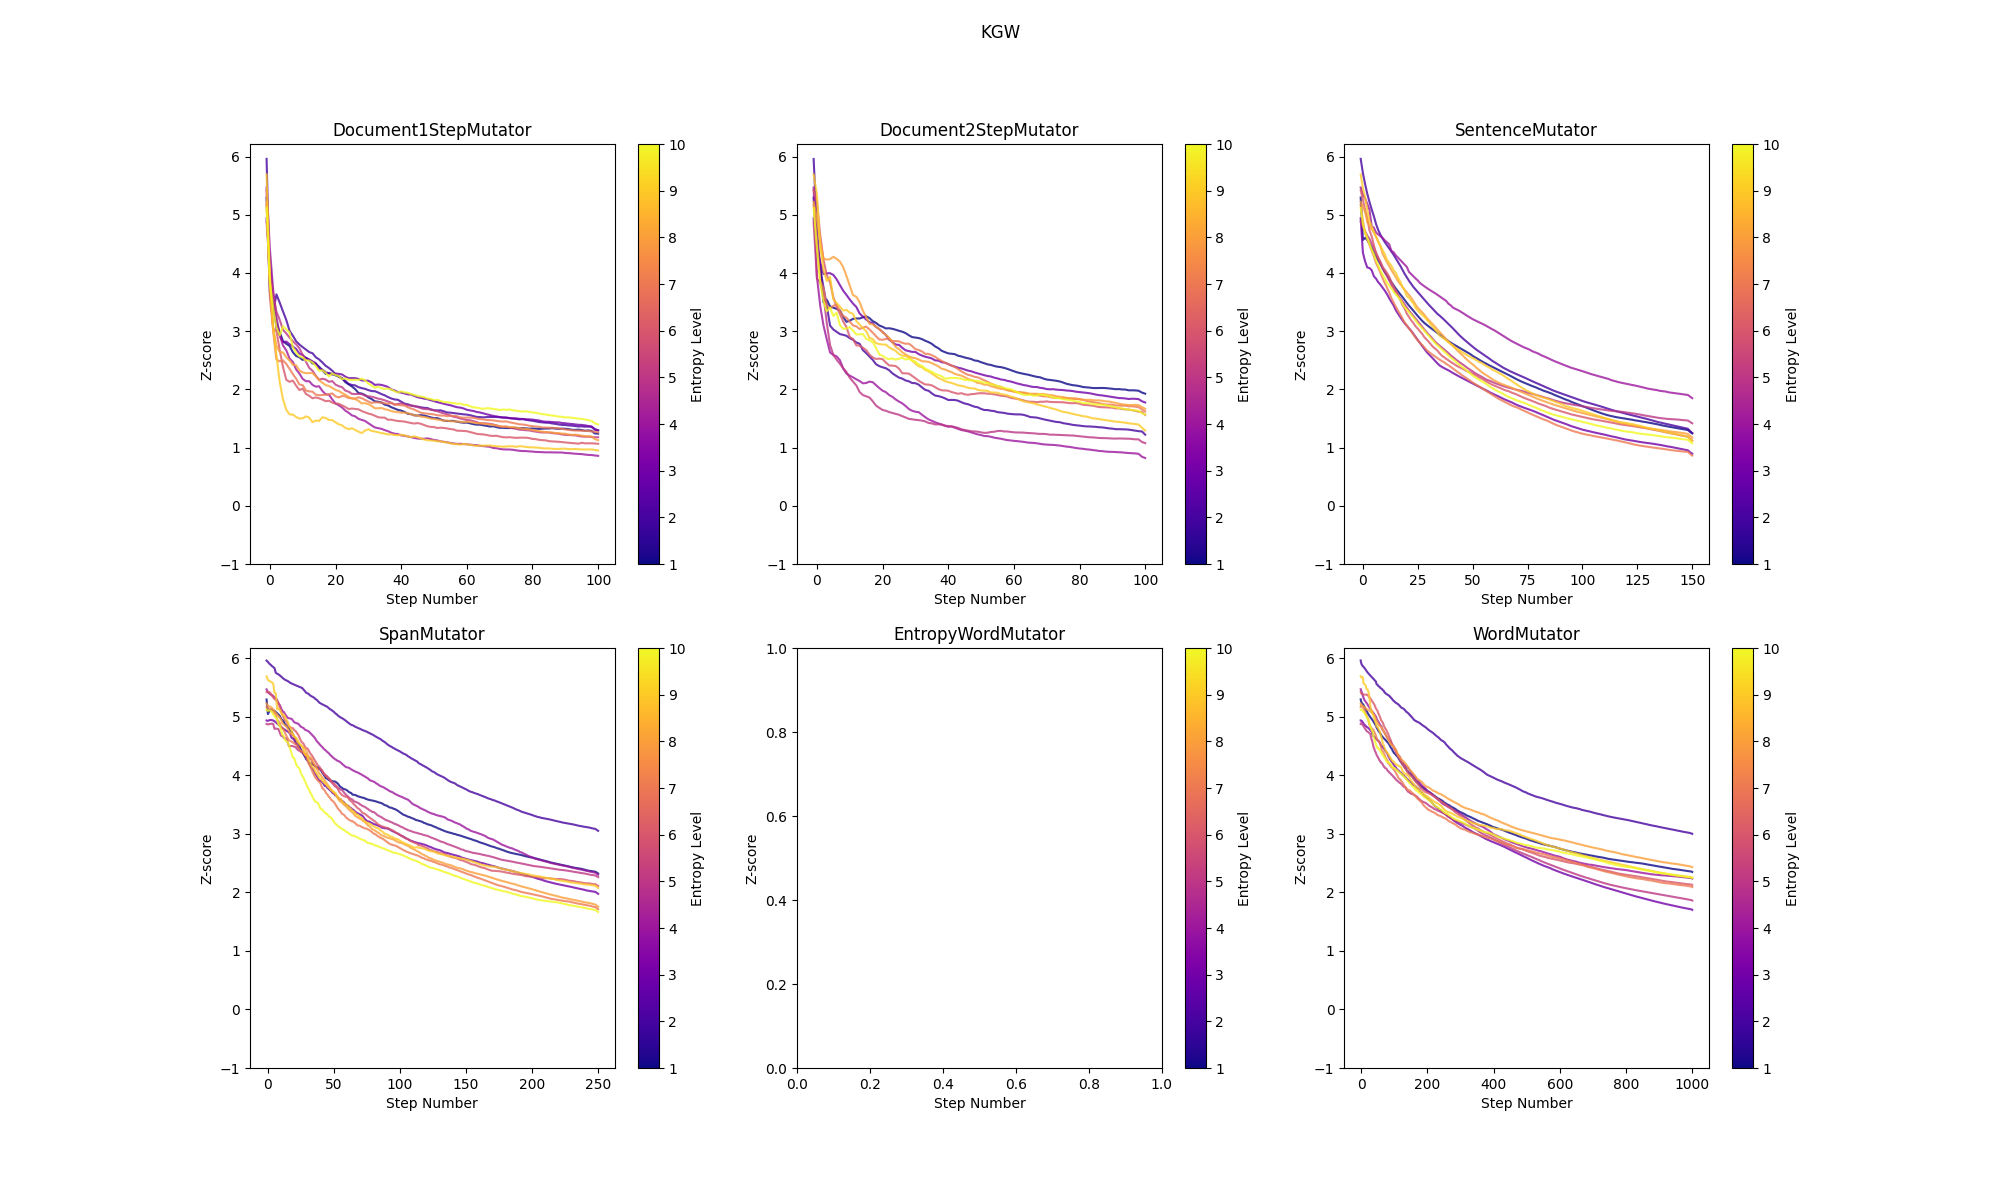
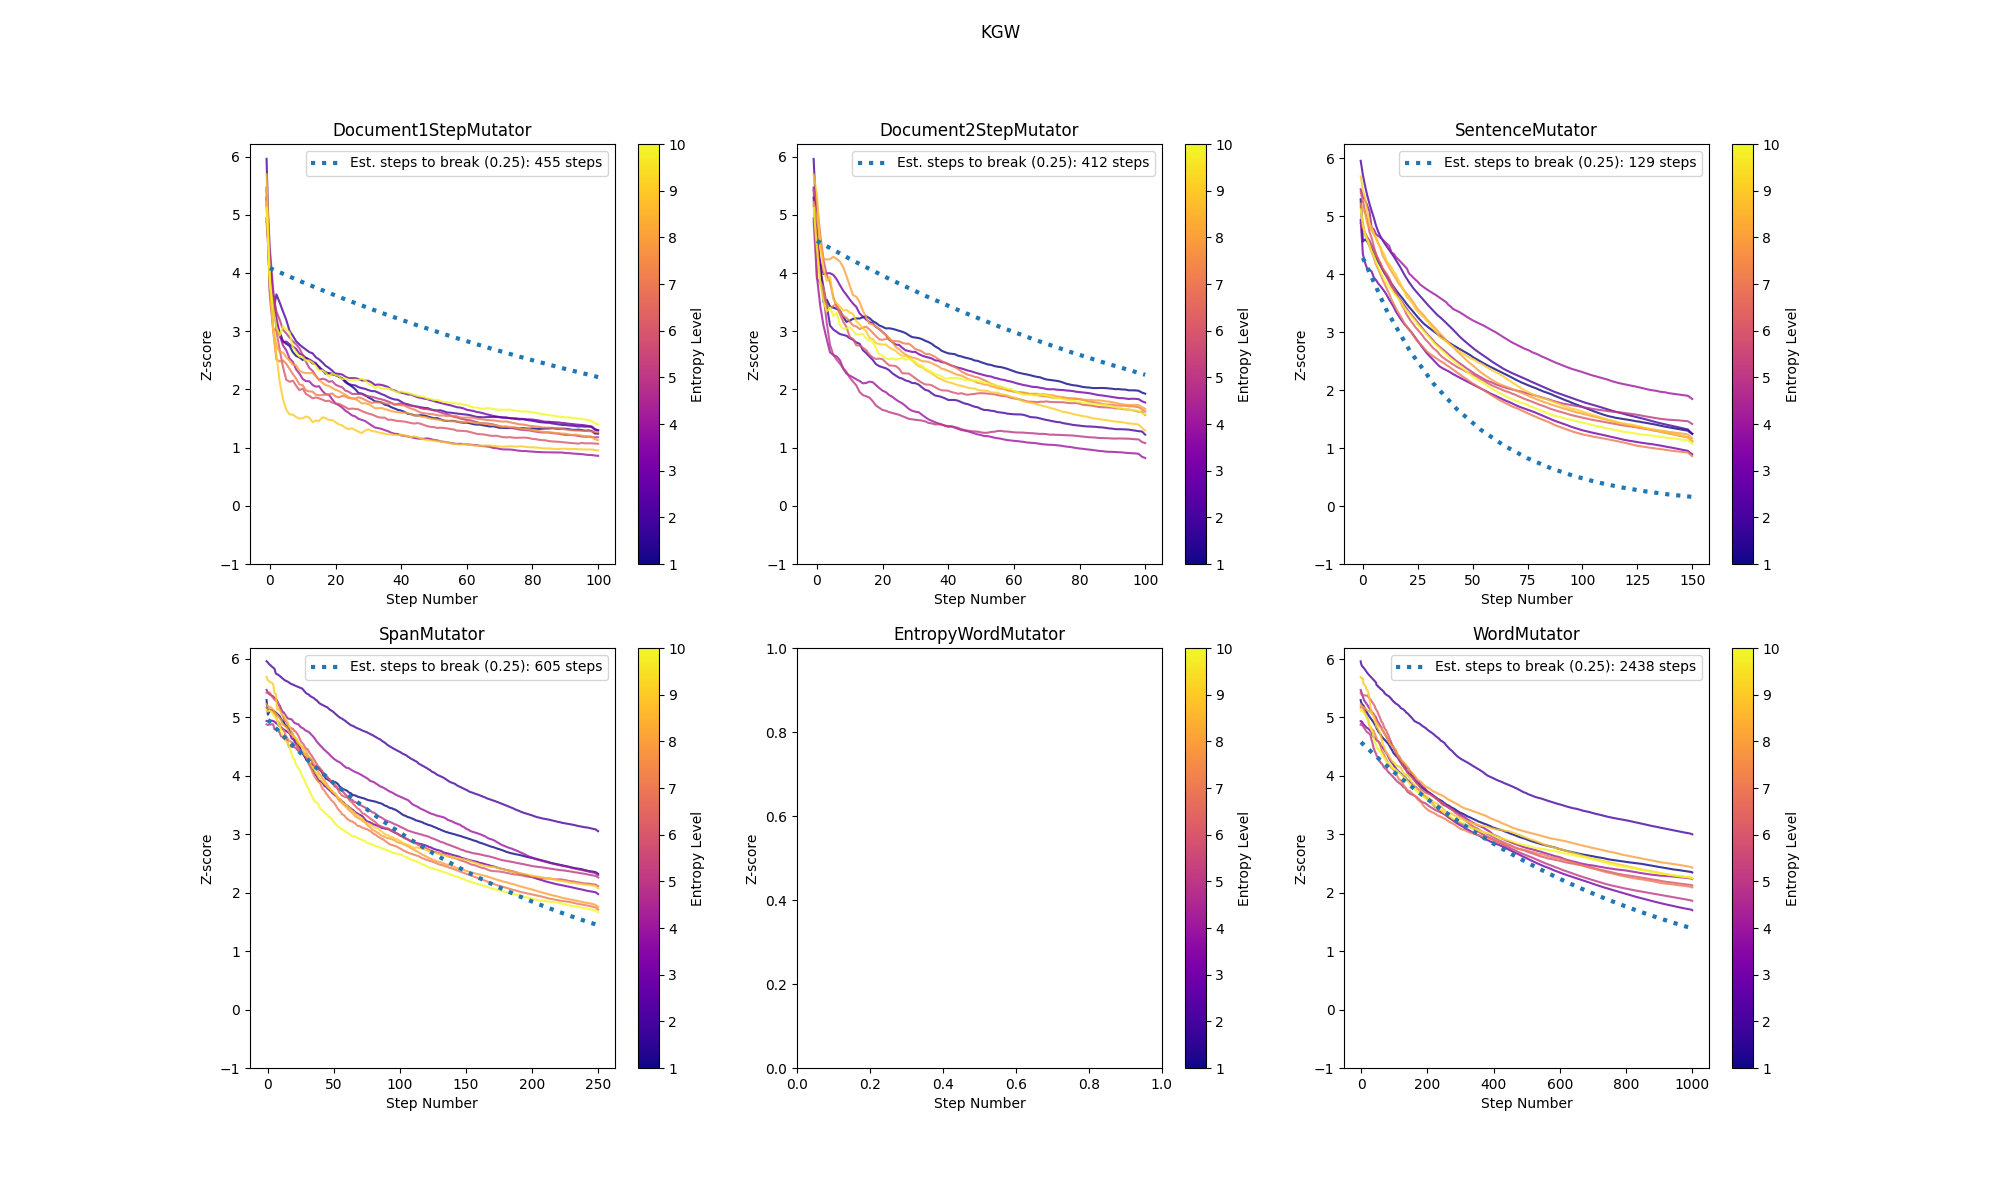
best fit lines are halfway decent

diff --git a/attack/analysis/attack_efficiency_analysis.py b/attack/analysis/attack_efficiency_analysis.py
@@ -6,16 +6,15 @@ import random
 import matplotlib.pyplot as plt
 import matplotlib.cm as cm
 from collections import defaultdict
+from scipy.optimize import curve_fit
 from attack.utils import load_all_csvs
 
 mutators = ["Document1StepMutator", "Document2StepMutator", "SentenceMutator", "SpanMutator", "EntropyWordMutator", "WordMutator"]
 watermarks = ["GPT4o_unwatermarked", "Adaptive", "KGW", "SIR"]
 watermark_thresholds = {
-    "GPT4o_unwatermarked", 
-    "Llama-3.1_unwatermarked", 
-    "Adaptive", 
-    "KGW", 
-    "SIR"
+    "Adaptive" : 60,
+    "KGW" : .25,
+    "SIR": .25,
 }
 annotated_watermarks = ["KGW", "Adaptive", "SIR"]
 quality_watermarks = ["KGW", "GPT4o_unwatermarked"]
@@ -167,6 +166,7 @@ def plot_estimated_watermark_breaking():
         for idm, mutator in enumerate(mutators):
             print(f"\tPlotting for {mutator}")
             
+            all_data = pd.DataFrame(columns=["step_num", "watermark_score"])
             final_data = [pd.DataFrame(columns=["step_num", "watermark_score"]) for e in range(1,11)]
             step_num_count_per_entropy = [defaultdict(int) for i in range(10)]
             # for each entropy: a dictionary for the number of instances of each step
@@ -221,6 +221,7 @@ def plot_estimated_watermark_breaking():
                     num_traces_per_entropy[entropy-1] += 1
                 
                 final_data[entropy-1] = pd.concat([final_data[entropy-1], attack[["step_num", "watermark_score"]]]).groupby("step_num", as_index=False).sum()
+                all_data = pd.concat([all_data, attack[["step_num", "watermark_score"]]])
                     
             for i, entropy_df in enumerate(final_data):
                 color = entropy_colors[i]
@@ -235,6 +236,33 @@ def plot_estimated_watermark_breaking():
                     entropy_df["watermark_score"] = entropy_df["watermark_score"].rolling(window=num_steps(mutator), min_periods=1).mean()
                     axs[idm].plot(entropy_df["step_num"], entropy_df["watermark_score"], alpha=.8, color=color)
             
+            # rough estimates
+            if "Adaptive" in watermarker:
+                initial_point = 40 
+                final_point = 20 
+                func = exponential50
+                threshold = watermark_thresholds[watermarker]-50
+            else:
+                initial_point = 4
+                final_point = 2
+                func = exponential
+                threshold = watermark_thresholds[watermarker]
+
+            params, cov = curve_fit(func, 
+                all_data["step_num"].to_numpy(), all_data["watermark_score"].to_numpy(),
+                p0=[initial_point, 100],
+                )
+            
+            crossing_point = np.log(params[0]/threshold) * params[1]
+            print(f"\t\t{crossing_point} steps to {threshold}")
+            print(f"\t\t{params}")
+
+            x = np.linspace(0, num_steps(mutator), num_steps(mutator)//10)
+            y = func(x, params[0], params[1])
+
+            axs[idm].plot(x, y, linewidth=3, linestyle="dotted", 
+                label=f"Est. steps to break ({threshold + (50 if 'Adaptive' in watermarker else 0)}): {int(crossing_point)} steps")
+            axs[idm].legend()
             if "Adaptive" in watermarker:
                 axs[idm].set_ylim(45, 105)
             else:
@@ -410,6 +438,12 @@ def num_steps(mutator):
         return 250
     if "Sentence" in mutator:
         return 150
+
+
+def exponential(x, a, b):
+    return a * np.e**(x / (-b))
+def exponential50(x, a, b):
+    return a * np.e**(x / (-b)) + 50
 
 
 if __name__ ==  "__main__":
